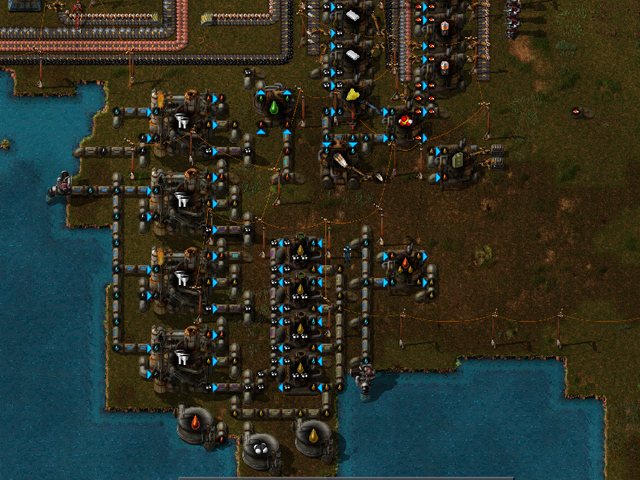
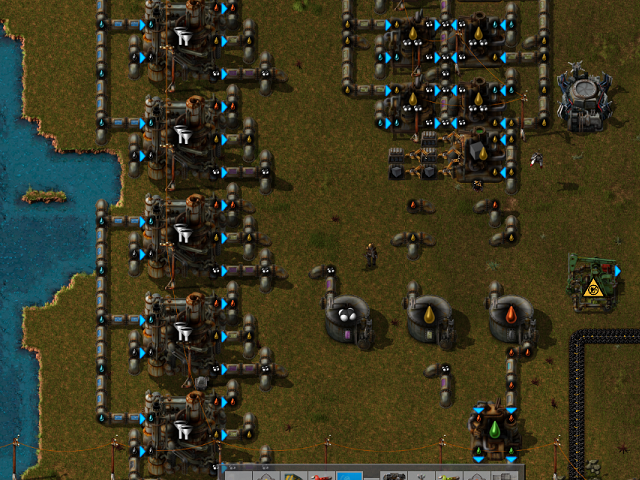
執筆

diff --git a/_posts/2015-8-17-Factorio自分用メモ.md b/_posts/2015-8-17-Factorio自分用メモ.md
@@ -30,12 +30,11 @@ title: Factorio自分用プレイメモ
 入力側は4列で十分足りる。中盤以降は上部を高速分配器に置き換えるのが吉。
 ![鉄板銅板搬出路](../images/factorio/line_plate_out.png)
 
-## サイエンスパック1 & サイエンスパック2
-![サイエンスパック1 & サイエンスパック2](../images/factorio/line_sp12.png)
+## サイエンスパック1 & サイエンスパック2 & 日用品
+![サイエンスパック1 & サイエンスパック2 & 日用品](../images/factorio/line_sp12.png)
 
 ## 原油コンビナート
-本当はもっと広い場所に建て、重油/軽油分解は離れた場所で行ったほうが何かと楽。
-また、液体は地下を移動させるのが楽なので、電池やプラスチックは銅と鉄にアクセスしやすい離れた場所で作ったほうが良い。
+液体は地下を移動させるのが楽なので、電池やプラスチックは銅と鉄にアクセスしやすい離れた場所で作ったほうが良い。
 ![原油コンビナート](../images/factorio/line_oil.png)
 
 ## 精錬施設
